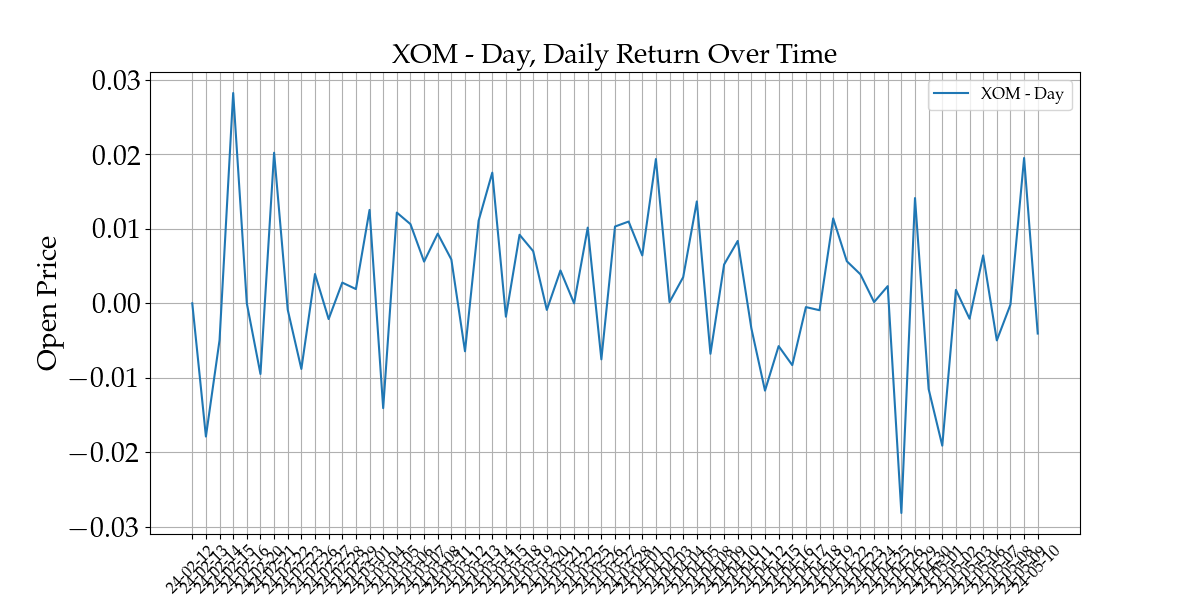
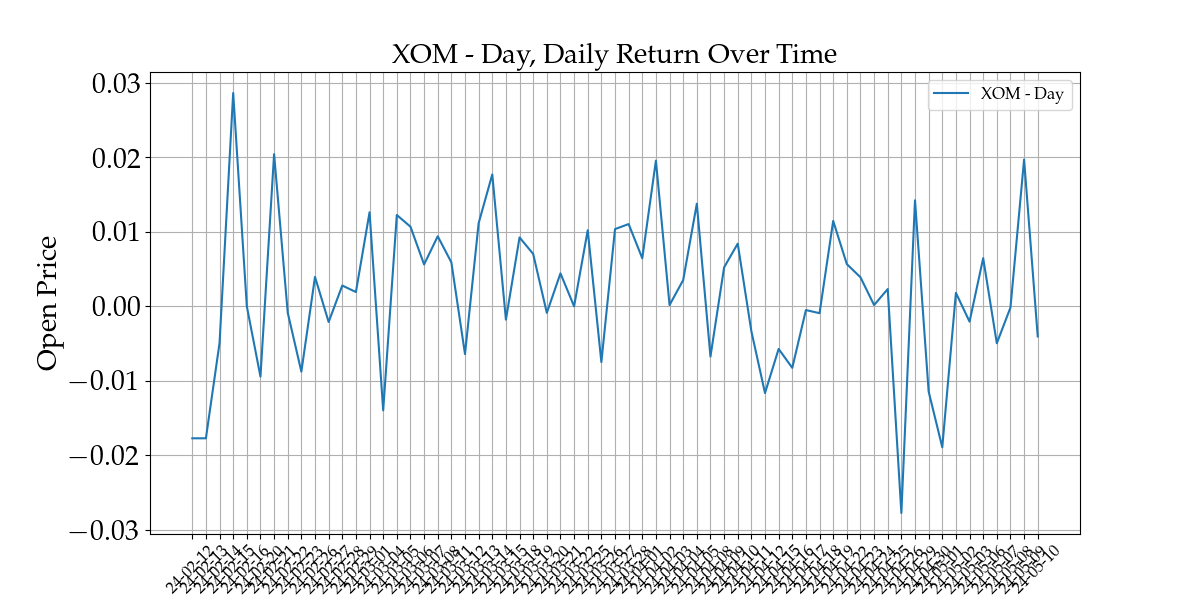
Fix actual value bug
Fix actual value bug

diff --git a/Multi-Input_GPR/main.py b/Multi-Input_GPR/main.py
@@ -442,7 +442,7 @@ class MultiInputGPR:
 
             f_means.append(f_mean[-1])
             f_vars.append(f_cov[-1])
-            actual_returns.append(Y_AAPL_full_tf[i])
+            actual_returns.append(Y_actual[i])
 
         # Return two-day predictions
         return [f_means, f_vars, actual_returns]
@@ -481,7 +481,12 @@ if __name__ == "__main__":
     portolio_assets = [ticker1, ticker2, ticker3, ticker4, ticker5]
 
     timeframes = ['d', 'w', 'm']
-    predict_Y = 'daily_log_return'
+    predict_Y = 'return'
+    isLogReturn = False
+    if predict_Y == 'daily_log_return':
+        isLogReturn = True
+    
+    
 
     # Risk-free rate (daily)
     risk_free_rate = 0.01 / 252  
@@ -546,16 +551,17 @@ if __name__ == "__main__":
     optimizer = Optimizer(lambda_l1=l1, lambda_l2=l2, trx_fee=broker_fee, if_tx_penalty=if_add_broker_fee_as_regularisation) 
     portfolio = Portfolio(portolio_assets, predicted_values, predicted_variances, optimizer, risk_free_rate=risk_free_rate, lambda_=0.01, broker_fee=broker_fee, if_cml=True)
     
-    optimal_weights, volatilities = portfolio.evaluate_portfolio(strategy_name='constant', max_volatility=max_volatility_threshold, min_return=min_return_threshold, isLogReturn=False)
+    # isLogReturn = False
+    optimal_weights, volatilities = portfolio.evaluate_portfolio(strategy_name='constant', max_volatility=max_volatility_threshold, min_return=min_return_threshold, isLogReturn=isLogReturn)
     portfolio_returns, transaction_costs = portfolio.backtest_portfolio(historical_returns=predicted_Y_values, strategy_name='constant', optimal_weights=optimal_weights, predicted_volatilities=volatilities)
     
-    optimal_weights_max_sharpe, volatilities_max_sharpe = portfolio.evaluate_portfolio(strategy_name='sharpe', max_volatility=max_volatility_threshold, min_return=min_return_threshold, isLogReturn=False)
+    optimal_weights_max_sharpe, volatilities_max_sharpe = portfolio.evaluate_portfolio(strategy_name='sharpe', max_volatility=max_volatility_threshold, min_return=min_return_threshold, isLogReturn=isLogReturn)
     portfolio_returns_sharpe, transaction_costs_sharpe = portfolio.backtest_portfolio(historical_returns=predicted_Y_values, strategy_name='sharpe', optimal_weights=optimal_weights_max_sharpe, predicted_volatilities=volatilities_max_sharpe)
     
-    optimal_weights_max_return, volatilities_max_return = portfolio.evaluate_portfolio(strategy_name='max_return', max_volatility=max_volatility_threshold, min_return=min_return_threshold, isLogReturn=False)
+    optimal_weights_max_return, volatilities_max_return = portfolio.evaluate_portfolio(strategy_name='max_return', max_volatility=max_volatility_threshold, min_return=min_return_threshold, isLogReturn=isLogReturn)
     portfolio_returns_return, transaction_costs_return = portfolio.backtest_portfolio(historical_returns=predicted_Y_values, strategy_name='max_return', optimal_weights=optimal_weights_max_return, predicted_volatilities=volatilities_max_return)
    
-    optimal_weights_min_volatility, volatilities_min_volatility = portfolio.evaluate_portfolio(strategy_name='min_volatility', max_volatility=max_volatility_threshold, min_return=min_return_threshold, isLogReturn=False)
+    optimal_weights_min_volatility, volatilities_min_volatility = portfolio.evaluate_portfolio(strategy_name='min_volatility', max_volatility=max_volatility_threshold, min_return=min_return_threshold, isLogReturn=isLogReturn)
     portfolio_returns_volatility, transaction_costs_volatility = portfolio.backtest_portfolio(historical_returns=predicted_Y_values, strategy_name='min_volatility', optimal_weights=optimal_weights_min_volatility, predicted_volatilities=volatilities_min_volatility)    
     
     portfolio_returns.insert(0, 0.0)

diff --git a/Multi-Input_GPR/utils/data_handler.py b/Multi-Input_GPR/utils/data_handler.py
@@ -87,7 +87,8 @@ class DataHandler:
         df.fillna({'return': first_return}, inplace=True)
         df['intraday_return'] = (df['close'] - df['open']) / df['open']
         df['daily_log_return'] = np.log(df['close'] / df['close'].shift(1))
-        df['daily_log_return'].fillna(0, inplace=True)
+        #df['daily_log_return'].fillna(0, inplace=True)
+        df['daily_log_return'] = df['daily_log_return'].replace([np.inf, -np.inf], 0)
 
         ########################################
         ### Don't Touch The Original Data!!!
